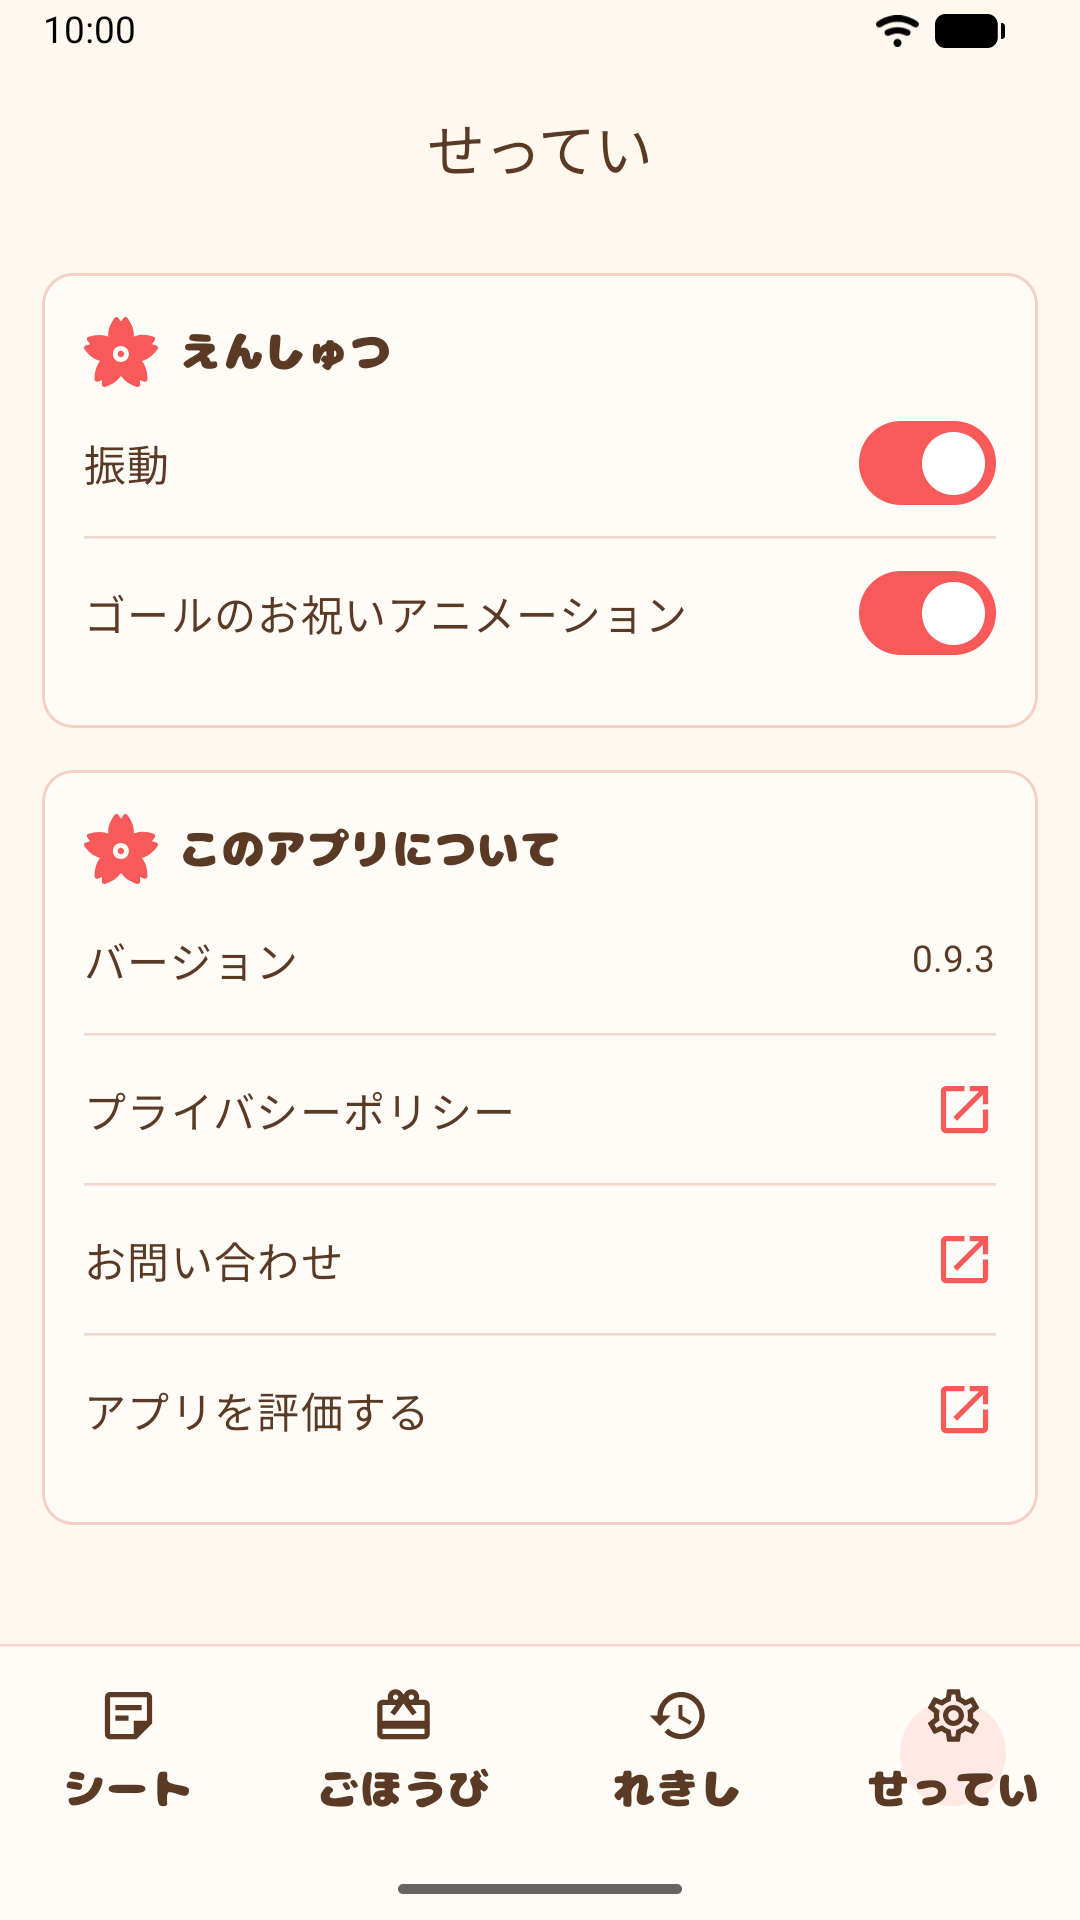
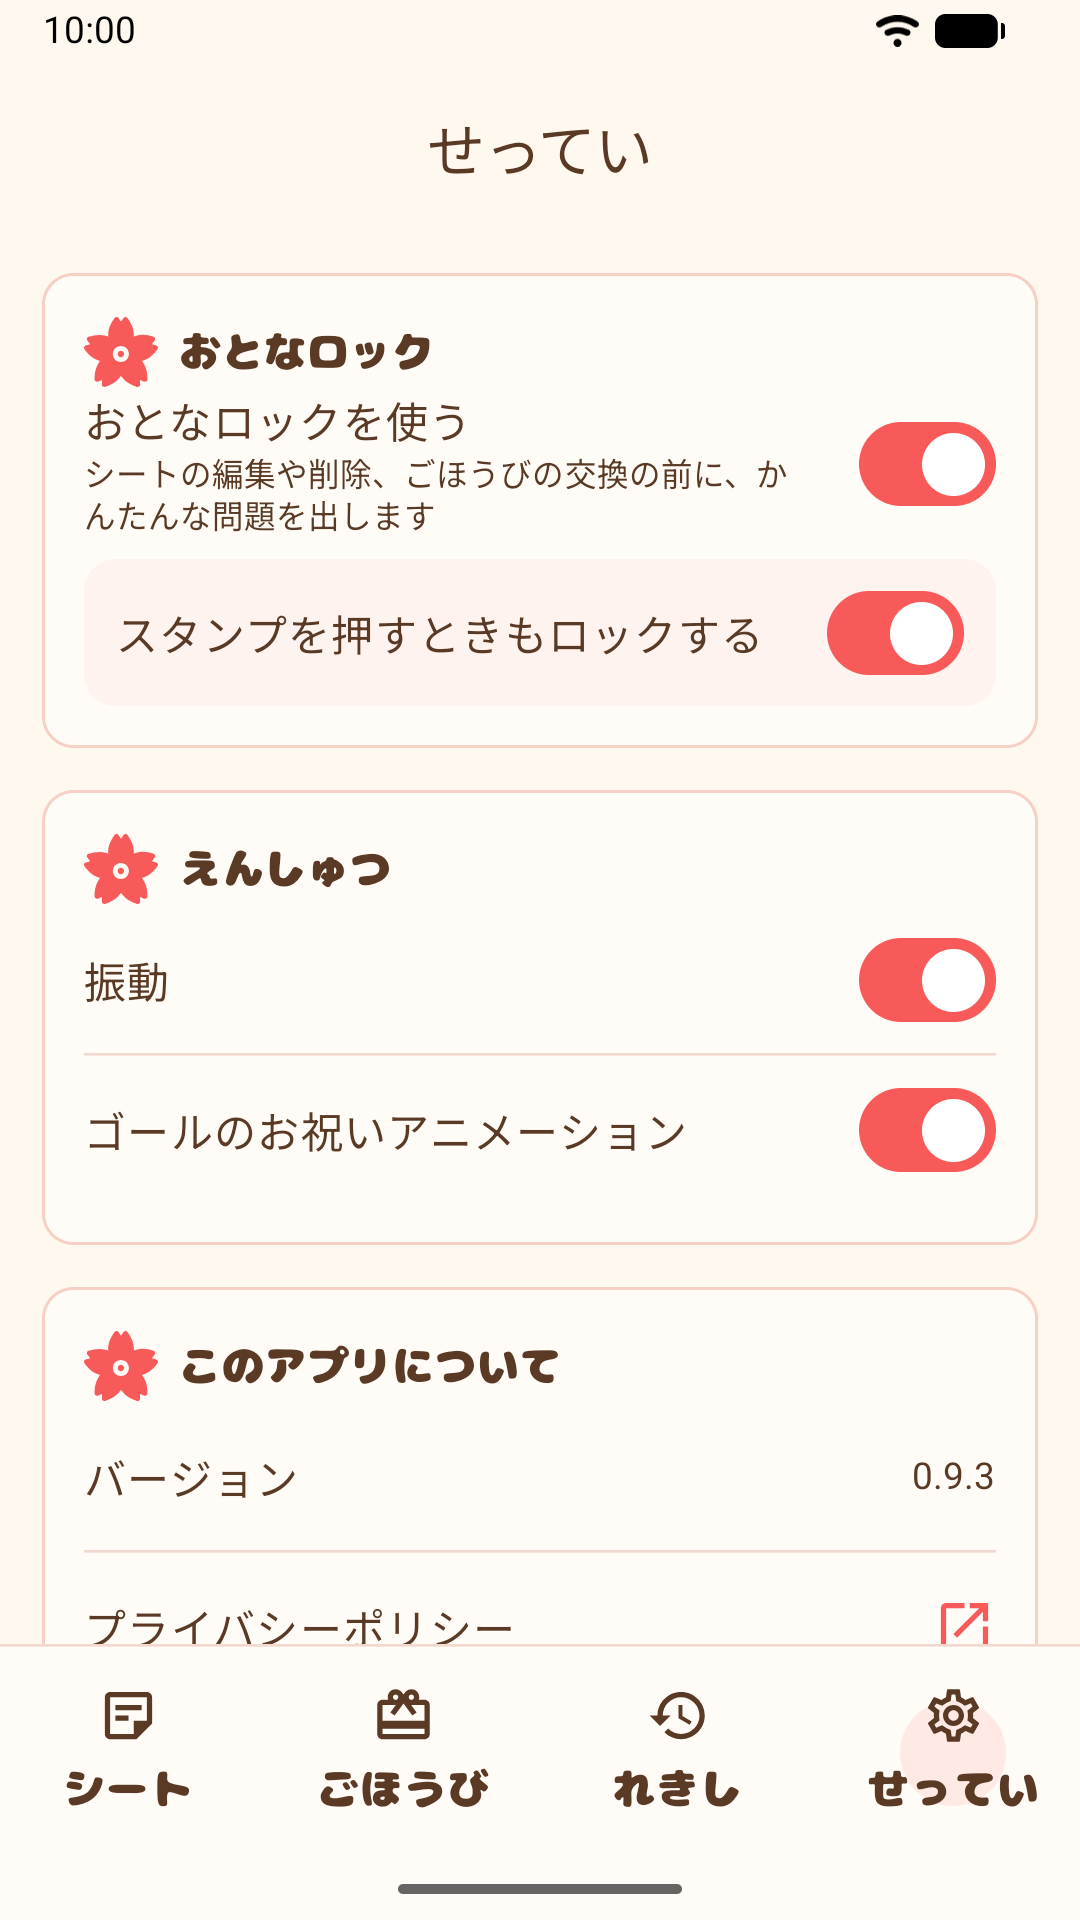
docs: add the adult lock to the screenshot tour and README

diff --git a/app/src/androidTest/java/com/cheesecomer/rewardstamp/screenshots/ScreenshotTour.kt b/app/src/androidTest/java/com/cheesecomer/rewardstamp/screenshots/ScreenshotTour.kt
@@ -35,6 +35,7 @@ import com.cheesecomer.rewardstamp.feature.sheet.edit.SheetEditTestTags
 import com.cheesecomer.rewardstamp.feature.sheet.list.SheetListTestTags
 import com.cheesecomer.rewardstamp.model.StampType
 import com.cheesecomer.rewardstamp.ui.component.dialog.ChoiceRewardDialogTestTags
+import com.cheesecomer.rewardstamp.ui.component.lock.AdultLockDialogTestTags
 import kotlinx.coroutines.runBlocking
 import org.junit.Assume.assumeTrue
 import org.junit.Before
@@ -146,9 +147,17 @@ class ScreenshotTour {
         waitFor(hasTestTag(CompletedSheetDetailTestTags.TITLE_LABEL))
         shoot("12-history-detail")
 
+        // おとなロックをオンにして撮り、シートでスタンプを押そうとして、解除の問題を撮る
         click(hasText(string(R.string.tab_settings)))
-        waitFor(hasTestTag(SettingsTestTags.VIBRATION_SWITCH))
+        click(hasTestTag(SettingsTestTags.ADULT_LOCK_SWITCH))
+        waitFor(hasTestTag(SettingsTestTags.STAMP_LOCK_SWITCH))
         shoot("13-settings")
+
+        click(hasText(string(R.string.tab_sheets)))
+        click(hasTestTag(SheetListTestTags.sheetCard(data.toothbrushingId)))
+        click(hasText(string(R.string.sheet_detail_stamp)))
+        waitFor(hasTestTag(AdultLockDialogTestTags.ROOT))
+        shoot("14-unlock-dialog")
     }
 
     private fun string(

diff --git a/README.md b/README.md
@@ -76,11 +76,12 @@
 
 ### せってい
 
-振動やゴールのお祝いアニメーションを切り替えられます。
+おとなロックをオンにすると、シートの編集やごほうびの交換など保護者の操作の前に、かんたんな計算問題が出ます。スタンプを押すときもロックするかは選べます。  
+振動やゴールのお祝いアニメーションも切り替えられます。
 
-| せってい                              |
-| ------------------------------------- |
-| ![](docs/screenshots/13-settings.png) |
+| せってい                              | おとなロック                               |
+| ------------------------------------- | ------------------------------------------ |
+| ![](docs/screenshots/13-settings.png) | ![](docs/screenshots/14-unlock-dialog.png) |
 
 ## 技術スタック
 
